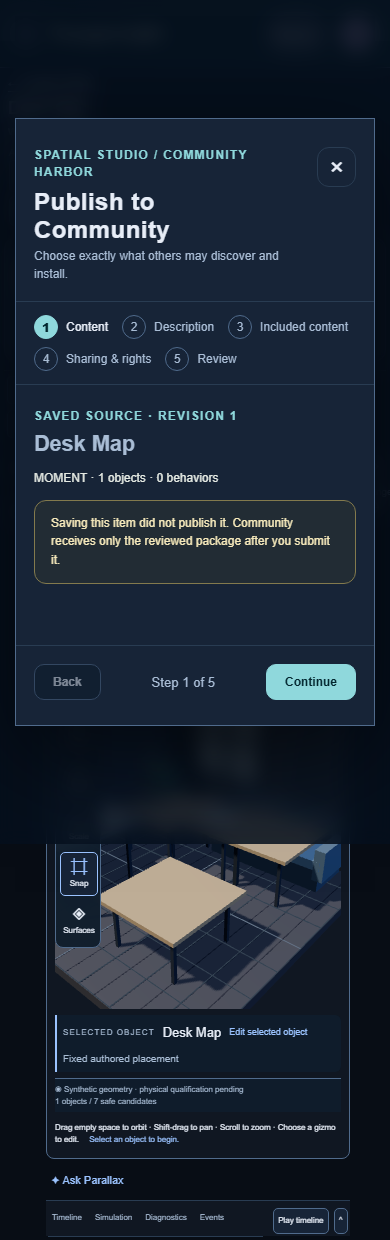
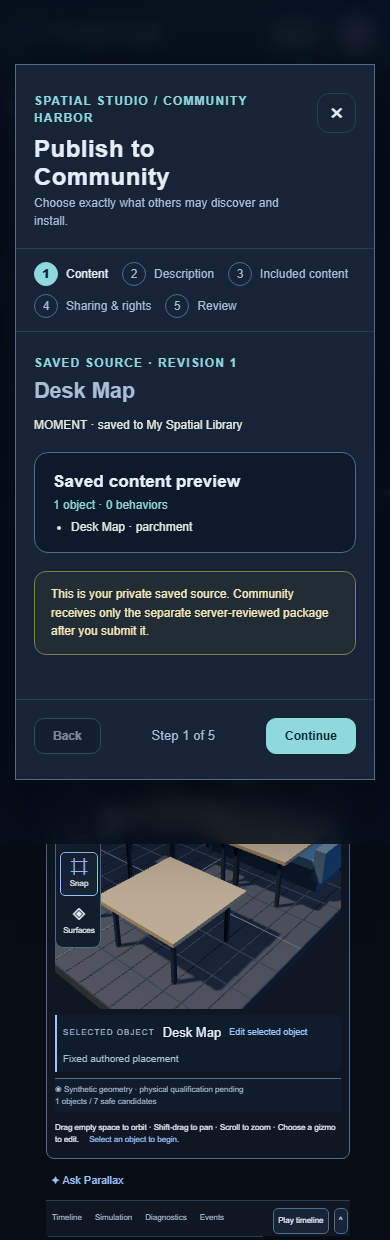
Record saved-source publishing preview evidence

Changed region(s): [[0.0308, 0.0306, 0.9846, 0.6435], [0.0615, 0.4903, 0.0923, 0.521]]

diff --git a/Development_Docs/Projects/Project_Parallax/SC_07A_Direct_Spatial_Community_Publishing.md b/Development_Docs/Projects/Project_Parallax/SC_07A_Direct_Spatial_Community_Publishing.md
@@ -12,7 +12,7 @@ SC-07A connects saved Creator-owned Spatial Studio content to Harborlight listin
 
 ## Creator journey
 
-Spatial Studio exposes one **Publish to Community** workflow from a saved personal item, SC-00C Library details and context actions, Scene Manager and an owned Environment. A saved composition extracted from the Creator's current owned source can use the same workflow; the server reconstructs its dependency-closed content from that source before granting redistribution eligibility. A source with a known redistribution or privacy limit instead shows **Review publishing limits** and the same workflow explains it before authoritative server review; it is not presented as ready to publish. The guided dialog identifies the exact saved revision, asks for title, description, tags, license, credits and rights acknowledgment, resolves included content on the server, then shows the sanitized package before an explicit submit. Its final review puts the immutable-release and moderation consequence above the package preview and requires a separate acknowledgment of the included content, credits, warnings and outcome. Keyboard focus wraps inside the modal. A prior listing for the same source can be selected to submit a new immutable release. Saving a draft or creating a Parallax version does not publish it.
+Spatial Studio exposes one **Publish to Community** workflow from a saved personal item, SC-00C Library details and context actions, Scene Manager and an owned Environment. A saved composition extracted from the Creator's current owned source can use the same workflow; the server reconstructs its dependency-closed content from that source before granting redistribution eligibility. A source with a known redistribution or privacy limit instead shows **Review publishing limits** and the same workflow explains it before authoritative server review; it is not presented as ready to publish. The guided dialog identifies the exact saved revision and previews its owned objects or Environment fixtures. This first preview remains private; the later server-verified review defines the Community package. The Creator enters title, description, tags, license, credits and rights acknowledgment, inspects resolved content, then sees the sanitized package before an explicit submit. Its final review puts the immutable-release and moderation consequence above the package preview and requires a separate acknowledgment of the included content, credits, warnings and outcome. Keyboard focus wraps inside the modal. A prior listing for the same source can be selected to submit a new immutable release. Saving a draft or creating a Parallax version does not publish it.
 
 A successful submit creates a Harborlight listing and release in `READY_FOR_REVIEW` or `UPDATE_PENDING`. The result says that moderation is next. If the response is lost, the dialog says that the outcome is unconfirmed, preserves the saved source, and asks the Creator to review the same package before retrying; the exact retry returns the recorded release without creating another. A changed update waits for the pending review to finish. The listing link is usable after the separate moderation authority publishes the release. The Community detail page then offers an exact-release installation review. Installation creates a pinned read-only Spatial Library item and, for a Scene, a pinned local Environment dependency. An installed composition retains its Compositions Library identity, is labeled **Community installs**, and can be added to a fixed Scene. Its Library details do not offer working-item rename or archive actions. An editable derivative requires a deliberate separate copy; installed content cannot be republished as Creator-owned source without verified redistribution lineage.
 
@@ -26,8 +26,8 @@ The package uses Harborlight's manifest, checksums and scanner contract. License
 
 ## Validation boundary
 
-Focused package and isolated SQLite integration tests cover private save without publication, preflight, license and dependency rejection, private source-label exclusion, immutable release payloads, Scene and owned Environment packaging, verified current-source composition lineage, refusal after parent revision changes, pending moderation, approved exact-release installation, verified-installation review eligibility, stable installation retries and update releases. The browser journeys use a production build, owned loopback server and synthetic accounts. Five journeys passed direct Studio publishing, all five mobile wizard stages, package JSON keyboard scrolling, forward and reverse Tab containment, Escape focus restoration, Community listing, mobile exact-release installation, verified review and read-only Studio return. The installed Studio status identifies the release rather than calling it a working draft. A known unlicensed physical model displayed **Review publishing limits** instead of **Publish to Community**; server review then refused it on mobile, created no listing and preserved the saved source after reload. A saved Scene journey reviewed and submitted its pinned synthetic Environment as a separate package item; the private photo source label was absent. A saved composition journey began in Library Compositions, inspected the marked package, opened a public listing labeled **Spatial composition**, and installed into a second account's Compositions tab. A fifth journey dropped the response after Harborlight recorded a release, observed an unconfirmed outcome in the dialog, then re-reviewed and recovered that same release by exact retry. The refusal is focused and scrolled into view. The direct database transition to `PUBLISHED` is a test fixture for the post-moderation journey, not evidence that moderation approved a real release.
+Focused package and isolated SQLite integration tests cover private save without publication, preflight, license and dependency rejection, private source-label exclusion, immutable release payloads, Scene and owned Environment packaging, verified current-source composition lineage, refusal after parent revision changes, pending moderation, approved exact-release installation, verified-installation review eligibility, stable installation retries and update releases. The browser journeys use a production build, owned loopback server and synthetic accounts. Five journeys passed direct Studio publishing, a saved-source preview on desktop and mobile, all five mobile wizard stages, package JSON keyboard scrolling, forward and reverse Tab containment, Escape focus restoration, Community listing, mobile exact-release installation, verified review and read-only Studio return. The installed Studio status identifies the release rather than calling it a working draft. A known unlicensed physical model displayed **Review publishing limits** instead of **Publish to Community**; server review then refused it on mobile, created no listing and preserved the saved source after reload. A saved Scene journey previewed its pinned Environment revision, then reviewed and submitted the Environment as a separate package item; the private photo source label was absent. A saved composition journey began in Library Compositions, inspected the marked package, opened a public listing labeled **Spatial composition**, and installed into a second account's Compositions tab. A fifth journey dropped the response after Harborlight recorded a release, observed an unconfirmed outcome in the dialog, then re-reviewed and recovered that same release by exact retry. The refusal is focused and scrolled into view. The direct database transition to `PUBLISHED` is a test fixture for the post-moderation journey, not evidence that moderation approved a real release.
 
-The [Creator guide](Spatial_Studio_Guide.md) gives the owner-review route. The [local SC-07A run receipt](evidence/sc-07a/20261015-local/run.json) binds five passing browser journeys and twenty-seven captures to candidate source `a34df02e`, after integrating SC-00C head `4f658431`. The captures include the [known-limit review](evidence/sc-07a/20261015-local/sc07a-known-limit-desktop.png), [mobile final review](evidence/sc-07a/20261015-local/sc07a-package-review-mobile.png), [mobile installation review](evidence/sc-07a/20261015-local/sc07a-installed-review-mobile.png), [mobile installed Studio](evidence/sc-07a/20261015-local/sc07a-installed-library-mobile.png), [Scene and Environment package](evidence/sc-07a/20261015-local/sc07a-scene-environment-review-desktop.png), [composition package](evidence/sc-07a/20261015-local/sc07a-composition-review-desktop.png), [public composition listing](evidence/sc-07a/20261015-local/sc07a-composition-listing-desktop.png), [installed composition in Library](evidence/sc-07a/20261015-local/sc07a-composition-installed-library-desktop.png), [pending-update choice](evidence/sc-07a/20261015-local/sc07a-pending-update-desktop.png), [unconfirmed response](evidence/sc-07a/20261015-local/sc07a-unconfirmed-submission-desktop.png), [recovered exact release](evidence/sc-07a/20261015-local/sc07a-recovered-submission-desktop.png) and [focused mobile rights refusal](evidence/sc-07a/20261015-local/sc07a-rights-failure-mobile.png). A [separate local visual review](evidence/sc-07a/20261015-local/review.md) records the repaired findings and remaining proof limits. SC-00C's lossless Environment bridge and its protected acceptance remain independently owned. Protected independent product experience review, Sounding Line and landed-source smoke remain open before claiming those tiers.
+The [Creator guide](Spatial_Studio_Guide.md) gives the owner-review route. The [local SC-07A run receipt](evidence/sc-07a/20261015-local/run.json) binds five passing browser journeys and twenty-eight captures to candidate source `d6a25dd7`, after integrating SC-00C head `4f658431`. The captures include the [saved source preview on mobile](evidence/sc-07a/20261015-local/sc07a-source-mobile.png), [Scene and pinned Environment preview](evidence/sc-07a/20261015-local/sc07a-scene-source-desktop.png), [known-limit review](evidence/sc-07a/20261015-local/sc07a-known-limit-desktop.png), [mobile final review](evidence/sc-07a/20261015-local/sc07a-package-review-mobile.png), [mobile installation review](evidence/sc-07a/20261015-local/sc07a-installed-review-mobile.png), [mobile installed Studio](evidence/sc-07a/20261015-local/sc07a-installed-library-mobile.png), [Scene and Environment package](evidence/sc-07a/20261015-local/sc07a-scene-environment-review-desktop.png), [composition package](evidence/sc-07a/20261015-local/sc07a-composition-review-desktop.png), [public composition listing](evidence/sc-07a/20261015-local/sc07a-composition-listing-desktop.png), [installed composition in Library](evidence/sc-07a/20261015-local/sc07a-composition-installed-library-desktop.png), [pending-update choice](evidence/sc-07a/20261015-local/sc07a-pending-update-desktop.png), [unconfirmed response](evidence/sc-07a/20261015-local/sc07a-unconfirmed-submission-desktop.png), [recovered exact release](evidence/sc-07a/20261015-local/sc07a-recovered-submission-desktop.png) and [focused mobile rights refusal](evidence/sc-07a/20261015-local/sc07a-rights-failure-mobile.png). A [separate local visual review](evidence/sc-07a/20261015-local/review.md) records the repaired findings and remaining proof limits. SC-00C's lossless Environment bridge and its protected acceptance remain independently owned. Protected independent product experience review, Sounding Line and landed-source smoke remain open before claiming those tiers.
 
 Feature Catalog: the candidate is not promoted as a completed mainline capability while protected integration and product experience evidence remain open.

diff --git a/Development_Docs/Projects/Project_Parallax/evidence/sc-07a/20261015-local/review.md b/Development_Docs/Projects/Project_Parallax/evidence/sc-07a/20261015-local/review.md
@@ -8,19 +8,19 @@ last_reviewed: 2026-10-15
 
 # SC-07A local independent visual review
 
[2 lines of base64/hex data omitted]
 
 | Contract dimension | Read-only observation |
 | --- | --- |
 | Persona and goal | The private saved source appears in [source desktop](sc07a-source-desktop.png); a separate synthetic Creator sees the approved release and exact-install action in [approved listing mobile](sc07a-approved-listing-mobile.png). The test creates two accounts. |
 | Entry | The test follows Creator Library to Spatial Studio, saves, then opens **Publish to Community**; [Library entry](sc07a-library-entry-desktop.png) shows the contextual dialog. |
-| Hierarchy and composition | [Description](sc07a-description-mobile.png), [included content](sc07a-included-mobile.png), [rights](sc07a-rights-mobile.png) and [final review](sc07a-package-review-mobile.png) show the five-step phone journey. The immutable-release warning appears before the package summary and advanced JSON. |
+| Hierarchy and composition | [Saved source desktop](sc07a-source-desktop.png) and [mobile](sc07a-source-mobile.png) show the exact saved revision, title, category and named object preview before the private-source boundary. The [Scene source](sc07a-scene-source-desktop.png) names its pinned synthetic Environment revision and object. [Description](sc07a-description-mobile.png), [included content](sc07a-included-mobile.png), [rights](sc07a-rights-mobile.png) and [final review](sc07a-package-review-mobile.png) continue the five-step phone journey. The final **SERVER-VERIFIED PACKAGE** remains visually distinct from the initial private preview; the immutable-release warning appears before its summary and advanced JSON. |
 | Outcomes and adverse states | [Submission](sc07a-submitted-mobile.png) says moderation is next; [pending update](sc07a-pending-update-desktop.png) explains the wait. [Known limit](sc07a-known-limit-desktop.png) and [focused refusal](sc07a-rights-failure-mobile.png) expose the unsupported physical model. The test confirms no listing was created and the private source remained. [Scene package](sc07a-scene-environment-review-desktop.png) names its pinned Environment and warns about room geometry. [Unconfirmed submission](sc07a-unconfirmed-submission-desktop.png) says the response was lost without claiming failure or success; [recovered submission](sc07a-recovered-submission-desktop.png) follows a fresh review and exact retry. The browser test lets the server commit the first release before dropping its response, verifies one pending release and retries to the same release ID. |
 | Desktop and mobile | The test advances all five wizard stages at 390 px, installs at that width and returns to Studio. Desktop and mobile review captures have distinct filenames. |
 | Keyboard and accessibility | The browser test checks labeled fields, visible refusal focus, Escape focus restoration, Tab and Shift+Tab wrap, package JSON keyboard scrolling and no serious or critical axe violations. This is bounded browser evidence. |
 | Return and continuity | The test returns from submission to Studio, restores the Library trigger after Escape and opens the pinned installed release. [Mobile Studio return](sc07a-installed-library-mobile.png) and [desktop Studio return](sc07a-installed-library-desktop.png) show its read-only state and **Create editable copy** action. |
 | Composition reuse and provenance | The [composition source](sc07a-composition-source-desktop.png) is selected from the owner's Library, the [package review](sc07a-composition-review-desktop.png) names the composition, and the [public listing](sc07a-composition-listing-desktop.png) identifies it as a **Spatial composition** under **Composition**. The [installed Library](sc07a-composition-installed-library-desktop.png) places it under Compositions with **Installed composition / Community installs**. Library details identify an installed read-only release, omit working-item actions, and offer **Add composition**. The source carries reuse lineage into a receiving Scene; server archive and publication guards preserve those boundaries. |
 
-Initial review findings concerned a final warning below the visible review area, incomplete mobile interaction and keyboard evidence, and an installed status message that called the release a working draft. Follow-up review also found a mislabeled viewport capture and raw license key. The composition review found a further P2: the installed release was labeled **My Creations** and exposed mutable working-item actions. The builder separated Community provenance, hid those actions, guarded archive on the server and preserved reuse lineage. The final revision also clarified the public Composition listing and interrupted submission recovery. After rebuilding and recapturing five journeys, the read-only reviewer verified the receipt and 27 image hashes and reported no remaining P1 or P2 experience finding in the inspected scope.
+Initial review findings concerned a final warning below the visible review area, incomplete mobile interaction and keyboard evidence, and an installed status message that called the release a working draft. Follow-up review also found a mislabeled viewport capture and raw license key. The composition review found a further P2: the installed release was labeled **My Creations** and exposed mutable working-item actions. The builder separated Community provenance, hid those actions, guarded archive on the server and preserved reuse lineage. Later revisions clarified the public Composition listing, interrupted submission recovery and private saved-source preview. After rebuilding and recapturing five journeys, the read-only reviewer verified the receipt and 28 image hashes and reported no remaining P1 or P2 experience finding in the inspected scope.
 
-The approved listing in this local journey uses a synthetic post-moderation database transition. The interrupted response is simulated after a real local server commit; the reviewer did not exercise separate HTTP 5xx or malformed responses. This review does not establish real moderation approval, protected product experience qualification, Sounding Line acceptance, deployment, owner acceptance or physical-device behavior. The protected planner still stops at `PRODUCT_EXPERIENCE_EXPERIENCE_DESIGN_REQUIRED:crossdeck.phase2.continuity:Crossdeck and Parallax experience integration`; the Crossdeck contract remains on draft PR #721.
+The initial saved-source preview is a client summary from a freshly loaded owned record, not proof of the public package. The approved listing in this local journey uses a synthetic post-moderation database transition. The interrupted response is simulated after a real local server commit; the reviewer did not exercise separate HTTP 5xx or malformed responses. This review does not establish real moderation approval, protected product experience qualification, Sounding Line acceptance, deployment, owner acceptance or physical-device behavior. The protected planner still stops at `PRODUCT_EXPERIENCE_EXPERIENCE_DESIGN_REQUIRED:crossdeck.phase2.continuity:Crossdeck and Parallax experience integration`; the Crossdeck contract remains on draft PR #721.

diff --git a/Development_Docs/Projects/Project_Parallax/Spatial_Studio_Guide.md b/Development_Docs/Projects/Project_Parallax/Spatial_Studio_Guide.md
@@ -77,6 +77,6 @@ Environment editing has its own Undo/Redo and explicit Save/Discard controls. Sc
 
 In the SC-07A candidate, save a personal asset or Scene, then select **Publish to Community** in Spatial Studio, the saved item's Library details or context menu, or Scene Manager. An owned synthetic Environment also has that action. To share a composition, select its root in an owned saved source, choose **Save selected composition**, then open the saved item under Library **Compositions** and select **Publish to Community**. The source must still match the extracted composition; if it changes, save a fresh composition. The same guided dialog opens from each entry. Saving alone remains private.
 
-Review the saved revision, write the listing description and tags, inspect every included Environment and choose a configured Harborlight license. A synthetic Environment requires a geometry privacy acknowledgment. Review the content-derived preview and expand **Inspect the sanitized package** for the full JSON. Confirm that you reviewed the included content, credits, warnings and moderation outcome before choosing **Submit to Community**. Submission creates an immutable release pending moderation; the listing appears publicly only after approval. If the response is interrupted, the dialog says the result is unconfirmed. Review the same package and retry the same choices; an exact retry returns an already recorded release without creating another. To update a release later, select the existing listing in the description step and review the new immutable package. A submission still awaiting moderation cannot accept a changed update. When Studio already knows a source contains an unresolved model, media, Vision reference, remix or calibration limit, its action reads **Review publishing limits** and the same dialog explains the limit before server review. If review reports a rights error, the saved Studio source remains private and can be edited before another attempt.
+Review the saved revision and its private preview of objects or Environment fixtures, then write the listing description and tags, inspect every included Environment and choose a configured Harborlight license. A synthetic Environment requires a geometry privacy acknowledgment. The final step separately shows the server-verified content-derived package preview; expand **Inspect the sanitized package** for its full JSON. Confirm that you reviewed the included content, credits, warnings and moderation outcome before choosing **Submit to Community**. Submission creates an immutable release pending moderation; the listing appears publicly only after approval. If the response is interrupted, the dialog says the result is unconfirmed. Review the same package and retry the same choices; an exact retry returns an already recorded release without creating another. To update a release later, select the existing listing in the description step and review the new immutable package. A submission still awaiting moderation cannot accept a changed update. When Studio already knows a source contains an unresolved model, media, Vision reference, remix or calibration limit, its action reads **Review publishing limits** and the same dialog explains the limit before server review. If review reports a rights error, the saved Studio source remains private and can be edited before another attempt.
 
 An approved Community listing offers **Install to my Library**. Review the exact release, license, included items and credits, then install. Open the pinned read-only result in Spatial Studio; choose **Create editable copy** to work separately. The Library labels installed items **Community installs** and omits working-item rename and archive controls. An installed composition appears under **Compositions** and can be added to a fixed Scene; that Scene then carries reuse lineage and cannot be published without verified redistribution rights. Third-party media, SC-02 physical models without owner redistribution authorization, private Vision/calibration references, reconstructed or measured rooms and unverified remix rights currently block publication with a specific explanation. Original private room photos are never included in the supported package. The [SC-07A implementation record](SC_07A_Direct_Spatial_Community_Publishing.md) tracks local evidence and remaining acceptance gates.

diff --git a/CHANGELOG.md b/CHANGELOG.md
@@ -14,7 +14,7 @@ last_reviewed: 2026-10-15
 
 ### Added
 
-- SC-07A candidate: one guided Spatial Studio route to Harborlight moderation for eligible saved assets, Scenes, verified owned extracted compositions and synthetic Environments, with exact sanitized package review and pinned read-only Community installation. Installed compositions return to Library Compositions and public listings identify their spatial type. An interrupted submission stays unconfirmed until an exact retry recovers the recorded release. Known rights or privacy limits appear as a review action before submission. [Implementation record](Development_Docs/Projects/Project_Parallax/SC_07A_Direct_Spatial_Community_Publishing.md) keeps unsupported binary/real-room cases and protected acceptance explicit.
+- SC-07A candidate: one guided Spatial Studio route to Harborlight moderation for eligible saved assets, Scenes, verified owned extracted compositions and synthetic Environments, with a private saved-source preview, exact sanitized package review and pinned read-only Community installation. Installed compositions return to Library Compositions and public listings identify their spatial type. An interrupted submission stays unconfirmed until an exact retry recovers the recorded release. Known rights or privacy limits appear as a review action before submission. [Implementation record](Development_Docs/Projects/Project_Parallax/SC_07A_Direct_Spatial_Community_Publishing.md) keeps unsupported binary/real-room cases and protected acceptance explicit.
 - SC-00C candidate unifies Spatial Studio's Library around Assets, Environments, Scenes, Effects and Compositions, with search, source filtering, saved-content actions and a single left rail. It consumes independently owned SC-01/SC-02 candidates. The [implementation record](Development_Docs/Projects/Project_Parallax/SC_00C_Spatial_Library_Refit.md) tracks qualification and remaining gates.
 - SC-01 candidate: reusable versioned Environments, independent Scene management, comparison and deliberate revision-impact updates in Spatial Studio. [Implementation and validation state](Development_Docs/Projects/Project_Parallax/SC_01_Environment_and_Scene_Manager.md) records passing focused/browser checks and the remaining protected experience-design dependency.
 

diff --git a/Development_Docs/Engineering/Repository_Operations/reference/feature-status.md b/Development_Docs/Engineering/Repository_Operations/reference/feature-status.md
@@ -6,7 +6,7 @@ canonical_for: feature-status
 last_reviewed: 2026-10-15
 ---
 
-SC-07A candidate source adds guided publishing of eligible saved Spatial assets, Scenes, verified owned extracted compositions and synthetic Environments through Harborlight's release and package contracts, followed by pinned read-only Library installation. An interrupted submission is presented as unconfirmed and can recover the exact recorded release. It is not yet protected-mainline availability or owner acceptance; binary media and real-room geometry remain blocked. See the [implementation record](../../../Projects/Project_Parallax/SC_07A_Direct_Spatial_Community_Publishing.md).
+SC-07A candidate source adds guided publishing of eligible saved Spatial assets, Scenes, verified owned extracted compositions and synthetic Environments through Harborlight's release and package contracts, followed by pinned read-only Library installation. The owner previews the saved source before the separate server-verified package review. An interrupted submission is presented as unconfirmed and can recover the exact recorded release. It is not yet protected-mainline availability or owner acceptance; binary media and real-room geometry remain blocked. See the [implementation record](../../../Projects/Project_Parallax/SC_07A_Direct_Spatial_Community_Publishing.md).
 
 SC-00C's [Spatial Library refit](../../../Projects/Project_Parallax/SC_00C_Spatial_Library_Refit.md) is an unmerged candidate for unified discovery and reuse across Assets, Environments, Scenes, Effects and Compositions. It consumes the separately owned SC-01 and SC-02 contracts; browser/visual qualification, protected integration and owner acceptance remain open.
 

diff --git a/Development_Docs/Engineering/Repository_Operations/product-status/current-status.md b/Development_Docs/Engineering/Repository_Operations/product-status/current-status.md
@@ -6,7 +6,7 @@ canonical_for: product-current-status
 last_reviewed: 2026-10-15
 ---
 
-SC-07A is an implementation candidate connecting eligible saved Spatial Studio content, including verified owned extracted compositions, to Harborlight package review, immutable moderation-gated releases and pinned Library installation. Five production-browser journeys include an interrupted response and exact-release recovery; independent protected experience and qualification remain open. Binary media and real-room geometry remain blocked. See the [implementation record](../../../Projects/Project_Parallax/SC_07A_Direct_Spatial_Community_Publishing.md).
+SC-07A is an implementation candidate connecting eligible saved Spatial Studio content, including verified owned extracted compositions, to Harborlight package review, immutable moderation-gated releases and pinned Library installation. Its first step previews the private saved source; the final step shows the separate server-verified package. Five production-browser journeys include an interrupted response and exact-release recovery; independent protected experience and qualification remain open. Binary media and real-room geometry remain blocked. See the [implementation record](../../../Projects/Project_Parallax/SC_07A_Direct_Spatial_Community_Publishing.md).
 
 SC-00C's [Spatial Library refit](../../../Projects/Project_Parallax/SC_00C_Spatial_Library_Refit.md) is an unmerged candidate. It unifies asset, Environment, Scene, effect and composition discovery in one left-rail Library and depends on the independently owned SC-01 and SC-02 candidates. Browser/visual qualification, protected integration and owner acceptance remain open.
 
